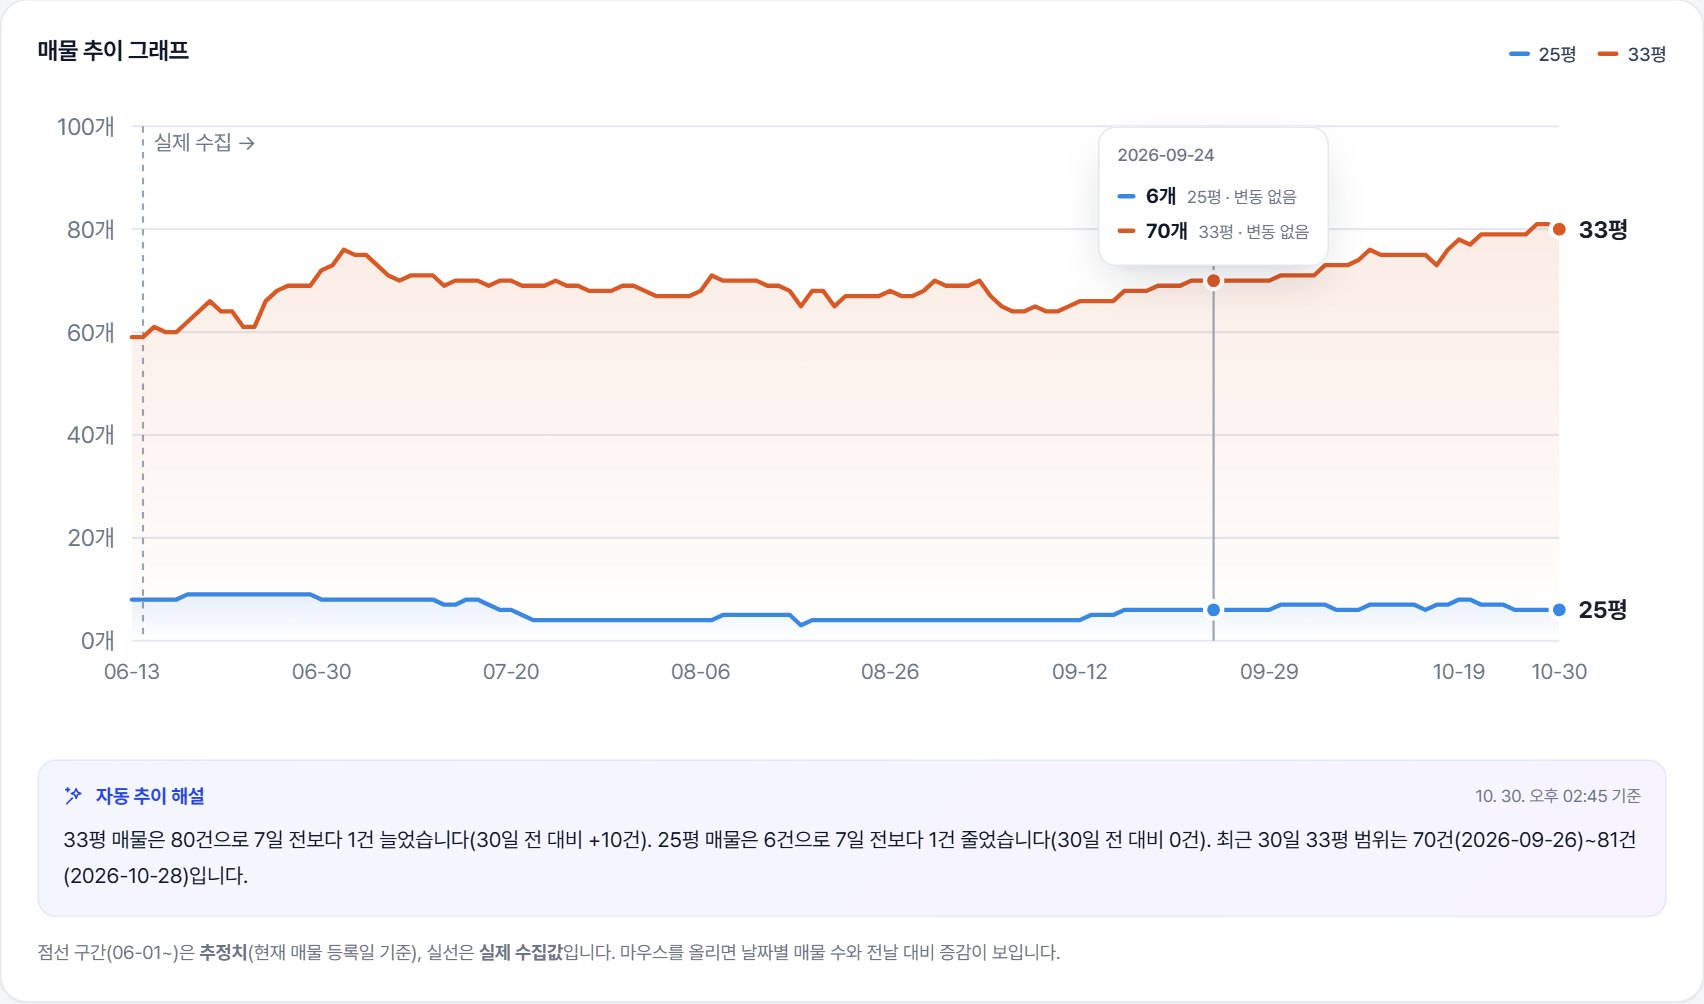
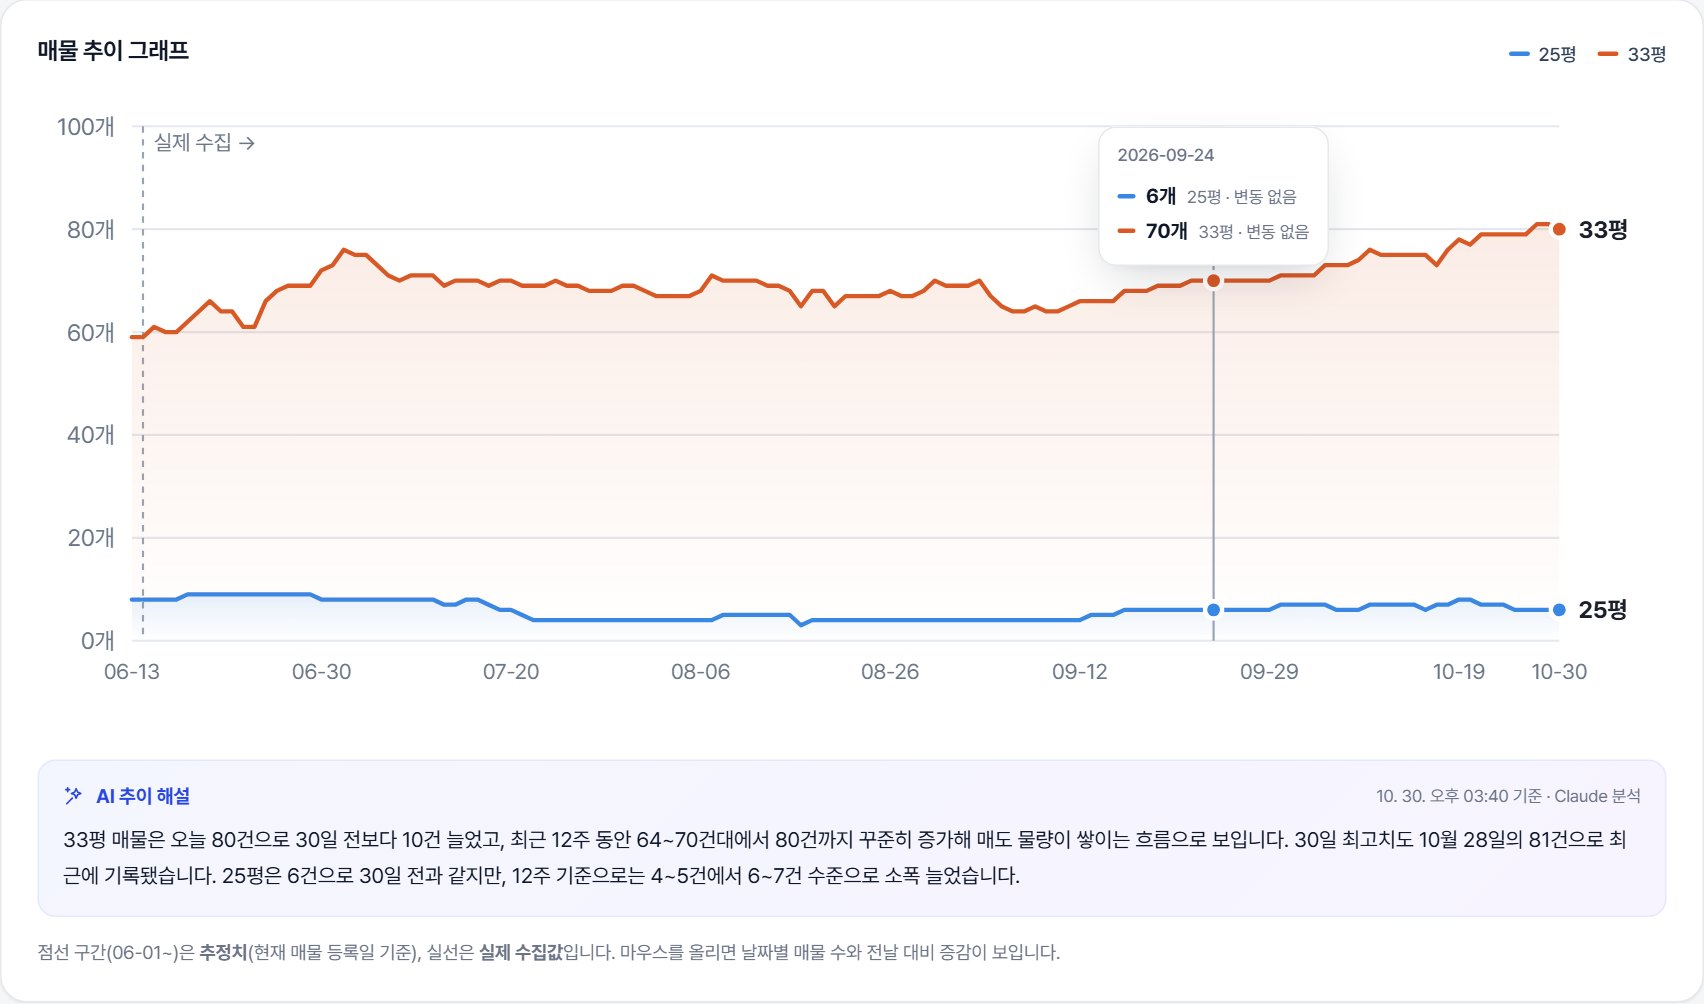
마지막 수집 시각 표시 + 해설 제목 'AI 추이 해설'로 통일
- 수집할 때마다 lastFetchedAt 기록 → 좌측 아래·숫자 칸에 HH:MM 표시
- 해설 제목은 항상 AI 추이 해설, 출처(Claude 분석/자동 분석)는 오른쪽 작은 글씨
- 사용법 캡처 다시 찍음(AI 해설 반영)

Changed region(s): [[0.0311, 0.7719, 0.9642, 0.8954], [0.0622, 0.7719, 0.1244, 0.8028]]

diff --git a/app.js b/app.js
@@ -246,7 +246,7 @@ function renderAnalysis(a) {
     if (!a || !a[key]) { box.hidden = true; continue; }
     const t = a.generatedAt ? new Date(a.generatedAt).toLocaleString("ko-KR", { month: "numeric", day: "numeric", hour: "2-digit", minute: "2-digit" }) : "";
     box.innerHTML =
-      `<div class="ai-head">${AI_ICO}<b>${a.source === "ai" ? "AI 추이 해설" : "자동 추이 해설"}</b><span>${esc(t)} 기준${a.source === "ai" ? " · Claude 분석" : ""}</span></div>` +
+      `<div class="ai-head">${AI_ICO}<b>AI 추이 해설</b><span>${esc(t)} 기준 · ${a.source === "ai" ? "Claude 분석" : "자동 분석"}</span></div>` +
       `<p>${esc(a[key])}</p>`;
     box.hidden = false;
   }
@@ -556,6 +556,10 @@ function renderKpis(state) {
   const realDays = (rows.find((r) => r.realDays) || {}).realDays || 10;
   // 실거래가 가장 많은 평형의 평균가를 대표값으로 보여준다
   const top = rows.filter((r) => r.realPrice).sort((a, b) => b.realCount - a.realCount)[0];
+  // 마지막 수집 시각(HH:MM) — 서버가 수집할 때마다 기록한다
+  const fetchedTime = state.lastFetchedAt
+    ? new Date(state.lastFetchedAt).toLocaleTimeString("ko-KR", { hour: "2-digit", minute: "2-digit", hour12: false })
+    : "";
   const tile = (label, value, sub, view, extra = "") =>
     `<a class="kpi" href="#${view}"><span class="kpi-label">${label}</span><b class="kpi-value">${value}</b><span class="kpi-sub">${sub}</span>${extra}</a>`;
   $("kpis").innerHTML = [
@@ -567,9 +571,9 @@ function renderKpis(state) {
     tile("오늘 거래 · 신규 신고", `${nToday} · ${nNew}<small>건</small>`,
       nToday || nNew ? "실거래 목록에서 확인" : "새 소식 없음", "deals"),
     tile("마지막 수집", esc(state.todayDate ? state.todayDate.slice(5).replace("-", "/") : "–"),
-      `평형 ${rows.length}개 집계`, "dashboard"),
+      `${fetchedTime ? `${fetchedTime} 수집 · ` : ""}평형 ${rows.length}개 집계`, "dashboard"),
   ].join("");
-  $("side-meta").textContent = state.todayDate ? `마지막 수집 ${state.todayDate}` : "";
+  $("side-meta").textContent = state.todayDate ? `마지막 수집 ${state.todayDate}${fetchedTime ? " " + fetchedTime : ""}` : "";
 }
 
 // ---------- 좌측 메뉴 (주소 #뷰이름 으로 화면 전환) ----------

diff --git a/index.html b/index.html
@@ -259,7 +259,7 @@
               <dt>읽는 법</dt><dd>평형별 매물 수의 하루하루 변화입니다. 오른쪽 끝 이름표가 평형입니다. 매물이 늘면 매도 물량이 쌓이는 것, 줄면 거래·소진되는 것으로 볼 수 있습니다.</dd>
               <dt>마우스 올리기 · 터치</dt><dd>세로선과 팝업으로 그날의 평형별 매물 수와 <b>전날 대비 증감</b>이 나옵니다. PC에서는 그래프를 누른 뒤 ← → 키로도 옮길 수 있습니다.</dd>
               <dt>점선 구간</dt><dd>수집을 시작하기 전 기간이라 매물 등록일로 거꾸로 추정한 값입니다. "실제 수집 →" 이후가 실제 값입니다.</dd>
-              <dt>추이 해설</dt><dd>그래프 아래 상자에 최근 흐름을 숫자와 함께 2~3문장으로 정리해 줍니다(AI 해설이 켜져 있으면 Claude가 작성).</dd>
+              <dt>AI 추이 해설</dt><dd>그래프 아래 상자에 AI(Claude)가 최근 흐름을 숫자와 함께 2~3문장으로 풀어 줍니다. 실거래 가격추이 아래에도 같은 해설이 있습니다. 데이터가 바뀌면 몇 시간 간격으로 새로 씁니다.</dd>
             </dl>
           </div>
         </section>

diff --git a/server.js b/server.js
@@ -217,6 +217,7 @@ function buildState() {
     complexName: history.complexName,
     realDeals,
     todayDate: todayKey,
+    lastFetchedAt: history.lastFetchedAt || null,
     prevDate: prevKey,
     rows,
     chart: {
@@ -420,6 +421,7 @@ async function refreshOnce() {
     history.compareReal = history.compareReal || {};
     for (const c of compareReal) history.compareReal[c.name] = { complexNo: c.complexNo, updated: today, deals: c.deals };
   }
+  history.lastFetchedAt = new Date().toISOString(); // 화면의 '마지막 수집' 시각
   writeJson(HISTORY_FILE, history);
   return { fetched: articles.length };
 }
